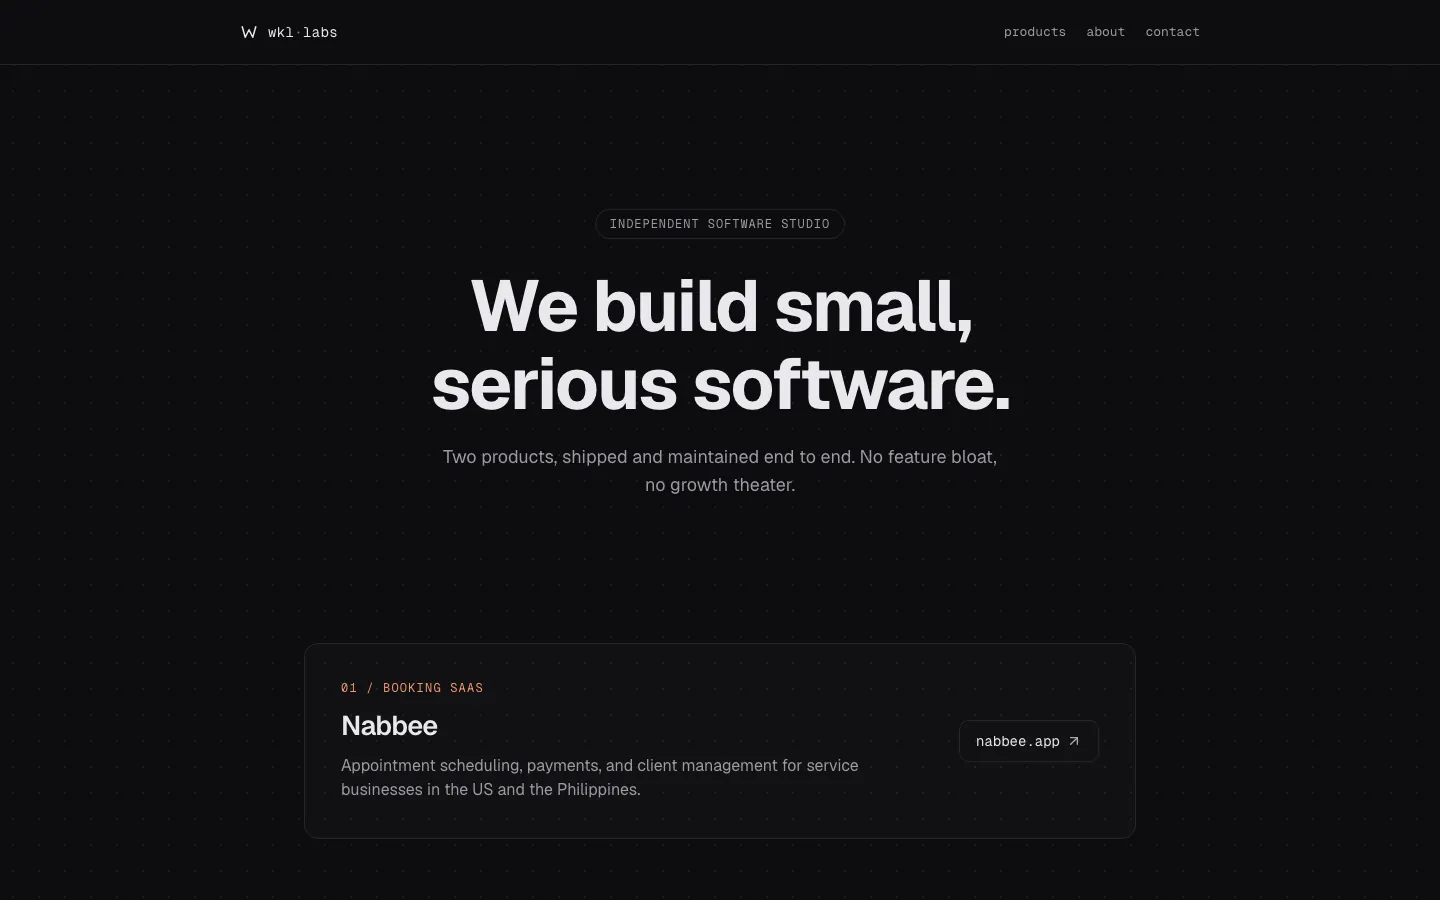
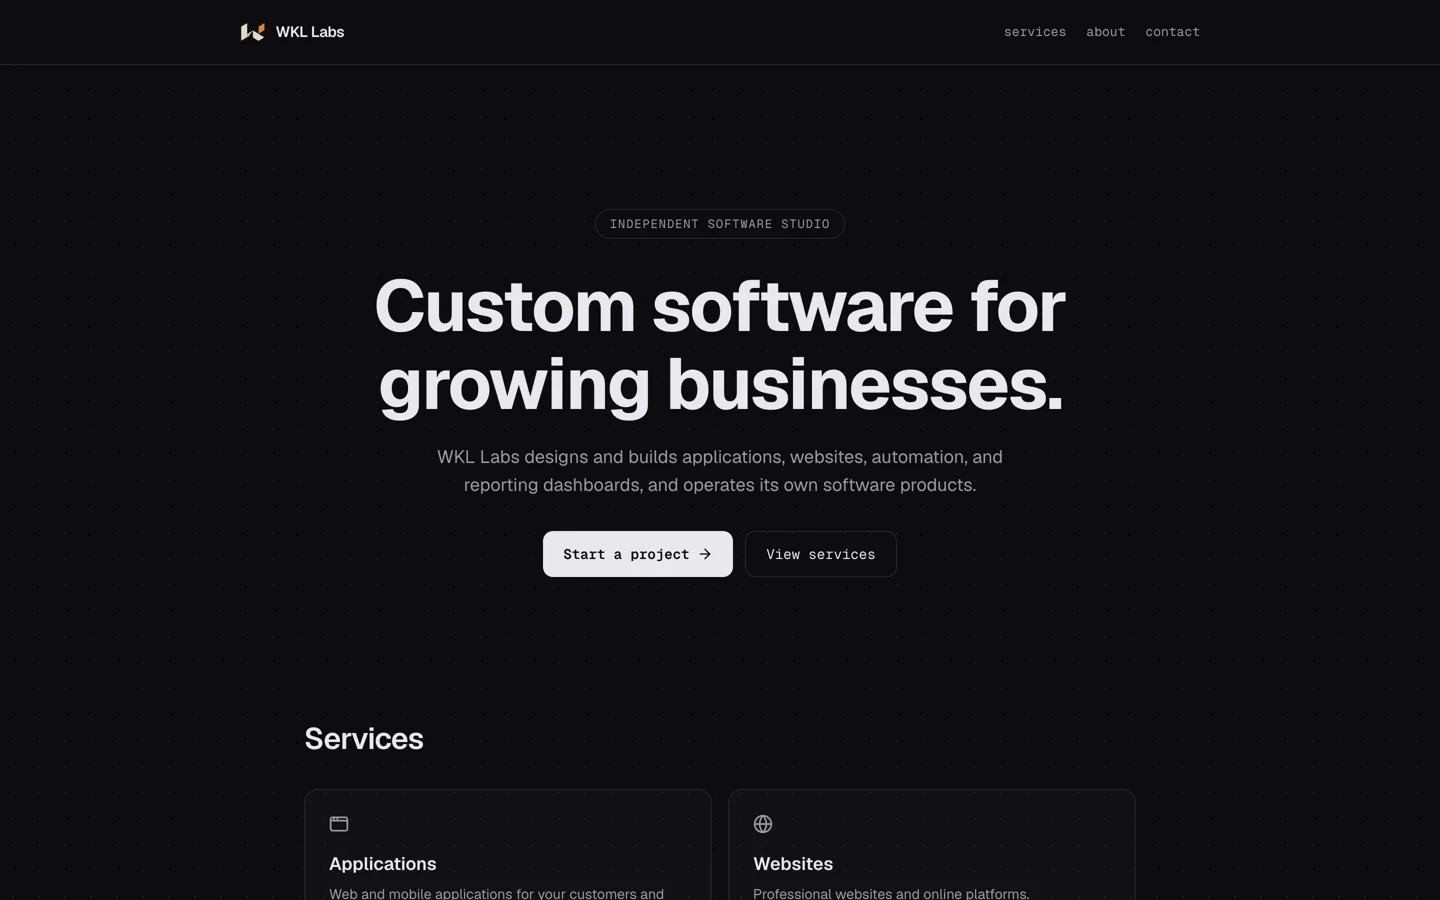
Refresh README, legal pages, older guides, and product descriptions

diff --git a/src/lib/guides.ts b/src/lib/guides.ts
@@ -30,8 +30,8 @@ export const guides: Guide[] = [
       {
         type: "prose",
         paras: [
-          "An automated reporting dashboard is a single view that pulls your numbers together, tidies them up, and refreshes itself on a set schedule. Instead of copying figures out of your systems every week and re-pasting them into the same layout, the dashboard does the assembly for you and always shows the current picture.",
-          "The important part for a busy owner: it runs on Google's or Microsoft's own servers, on a schedule you choose. Your laptop does not need to be open, there is no extra program to install, and no separate subscription to pay for. It works inside the account you already have.",
+          "An automated reporting dashboard is a single view that consolidates your data, standardizes it, and updates on a set schedule. Rather than copying figures from your systems into the same report each week, your team can rely on a dashboard that stays current.",
+          "It runs on Google's or Microsoft's servers on a schedule you choose, inside the account you already have. It does not depend on your computer being on and requires no additional software or separate subscription.",
         ],
       },
       {
@@ -51,7 +51,7 @@ export const guides: Guide[] = [
         items: [
           { h: "Portfolio health", p: "Occupancy, leased percent, leads and delinquency across properties, with a same-store comparison." },
           { h: "Sales performance", p: "Revenue vs target, pipeline by stage, and rep attainment in one screen." },
-          { h: "Marketing & web", p: "Sessions, conversions, channels and top landing pages, refreshed on their own." },
+          { h: "Marketing & web", p: "Sessions, conversions, channels and top landing pages, updated automatically." },
           { h: "Finance & ops", p: "Cash, margins, aging and any operational number you review on a cycle." },
         ],
       },
@@ -60,9 +60,9 @@ export const guides: Guide[] = [
         title: "How it comes together",
         items: [
           { h: "Data comes in", p: "Your numbers reach the sheet by import, form, export, or manual entry." },
-          { h: "It gets tidied", p: "On your schedule, the build cleans, combines and organizes the data for you." },
-          { h: "Your view updates", p: "The dashboard refreshes on its own, so the current picture is always ready." },
-          { h: "You get alerts", p: "If something looks off, it emails you. Otherwise it runs quietly." },
+          { h: "Data is prepared", p: "On your schedule, the data is cleaned, combined, and organized." },
+          { h: "The dashboard updates", p: "The dashboard refreshes automatically, so current figures are always available." },
+          { h: "Exceptions are flagged", p: "If a value appears incorrect, the system sends an email alert." },
         ],
       },
       {
@@ -87,8 +87,8 @@ export const guides: Guide[] = [
       {
         type: "prose",
         paras: [
-          "Google Apps Script is free automation that lives inside Google Sheets and the rest of Google Workspace. Think of it as a set of instructions you can save once, then have Google run for you: pull these numbers together, tidy them up, refresh this summary, send that email.",
-          "It runs on Google's own computers, on a schedule you choose. Your laptop does not need to be open, there is no extra program to install, and no separate subscription to pay for. It works inside the Google account you already have.",
+          "Google Apps Script is an automation platform included with Google Sheets and other Google Workspace applications. It runs saved instructions such as consolidating data, updating a summary, or sending an email.",
+          "Scripts run on Google's servers on a schedule you choose, inside your existing Google account. They do not depend on your computer being on and require no additional software or separate subscription.",
         ],
       },
       {
@@ -106,9 +106,9 @@ export const guides: Guide[] = [
         dek: "Common tasks that small businesses automate.",
         items: [
           { h: "Pull data into one place", p: "Bring numbers from different sheets, exports or tools together into a single view." },
-          { h: "Clean and de-duplicate", p: "Fix inconsistent formatting, remove duplicate rows, standardize names and dates automatically." },
-          { h: "Weekly reports on a schedule", p: "Have a dashboard or summary refresh itself, so the current numbers are always ready." },
-          { h: "Alerts when something's off", p: "Receive an email when a number crosses a set threshold, such as low stock or an overdue payment." },
+          { h: "Clean and de-duplicate", p: "Correct inconsistent formatting, remove duplicate rows, and standardize names and dates." },
+          { h: "Scheduled weekly reports", p: "Update a dashboard or summary automatically on a set schedule." },
+          { h: "Exception alerts", p: "Receive an email when a number crosses a set threshold, such as low stock or an overdue payment." },
           { h: "Form-to-sheet workflows", p: "Turn form responses into organized records: log the entry, send a confirmation, file it." },
           { h: "Send routine emails", p: "Email a recurring report or reminder to the right people automatically, straight from the sheet." },
         ],
@@ -118,16 +118,16 @@ export const guides: Guide[] = [
         title: "How it works",
         items: [
           { h: "Data comes in", p: "Your numbers reach the sheet by import, form, export, or manual entry." },
-          { h: "The script tidies it", p: "On the schedule you set, Apps Script cleans, combines and organizes the data." },
-          { h: "Your summary updates", p: "Your dashboard or report refreshes on its own, so the current view is always ready." },
-          { h: "You get alerts", p: "If something looks off, it emails you. Otherwise it runs quietly and you do nothing." },
+          { h: "Data is prepared", p: "On your schedule, Apps Script cleans, combines, and organizes the data." },
+          { h: "Reports update", p: "Your dashboard or report refreshes automatically, so current figures are always available." },
+          { h: "Exceptions are flagged", p: "If a value appears incorrect, the script sends an email alert." },
         ],
       },
       {
         type: "faq",
         title: "Is it free? Do I need anything?",
         items: [
-          { q: "Is it really free?", a: "Yes. Apps Script is included with your Google account at no extra charge. There is no separate license or subscription to switch it on." },
+          { q: "Is there an additional cost?", a: "No. Apps Script is included with your Google account at no extra charge. There is no separate license or subscription to switch it on." },
           { q: "Do I need to install anything?", a: "No new software. If you can open Google Sheets, you already have everything needed. It works in your normal browser." },
           { q: "What account do I need?", a: "A standard free Google account works for most everyday jobs. A paid Workspace account raises the daily limits for heavier tasks." },
           { q: "Are there any limits?", a: "Google sets fair daily limits, for example on emails per day. Most small-business tasks sit well inside them; Workspace accounts get higher limits." },

diff --git a/src/lib/products.ts b/src/lib/products.ts
@@ -18,7 +18,7 @@ export const products: Product[] = [
     kicker: "Booking SaaS",
     name: "Nabbee",
     description:
-      "Appointment scheduling, payments, and client management for service businesses in the US and the Philippines.",
+      "Online booking, deposits, and customer management for service businesses in the US and the Philippines.",
     href: "https://nabbee.app",
     hrefLabel: "nabbee.app",
     accentClass: "text-accent-nabbee",
@@ -31,7 +31,7 @@ export const products: Product[] = [
     kicker: "Marketplace",
     name: "Spell Collector",
     description:
-      "A trading-card marketplace where collectors buy, sell, and track their collections.",
+      "A Magic: The Gathering and Pokémon marketplace where collectors compare prices, buy from local shops, and manage their collections.",
     href: "https://spellcollector.com",
     hrefLabel: "spellcollector.com",
     accentClass: "text-accent-spell",

diff --git a/src/app/terms/page.tsx b/src/app/terms/page.tsx
@@ -14,7 +14,7 @@ export default function TermsPage() {
       <Navbar />
       <article className="mx-auto w-full max-w-2xl flex-1 px-5 py-16 sm:px-8">
         <p className="mb-3 font-mono text-xs tracking-[0.1em] text-subtle uppercase">
-          Last updated: July 17, 2026
+          Last updated: November 4, 2026
         </p>
         <h1 className="text-3xl font-bold tracking-tight">Terms of Use</h1>
 
@@ -23,7 +23,7 @@ export default function TermsPage() {
             <h2>Scope</h2>
             <p>
               These terms cover your use of the WKL Labs company website
-              (wkllabs.com and wklapp.com). Our products, Nabbee and Spell
+              (wkllabs.com). Our products, Nabbee and Spell
               Collector, have their own terms of service on their own sites.
             </p>
           </section>

diff --git a/src/app/privacy/page.tsx b/src/app/privacy/page.tsx
@@ -22,8 +22,7 @@ export default function PrivacyPage() {
           <section>
             <h2>Scope</h2>
             <p>
-              This policy covers the WKL Labs company website (wkllabs.com and
-              wklapp.com). Our products, Nabbee and Spell Collector, have their
+              This policy covers the WKL Labs company website (wkllabs.com). Our products, Nabbee and Spell Collector, have their
               own privacy policies on their own sites, which govern data handled
               inside those products.
             </p>

diff --git a/README.md b/README.md
@@ -1,39 +1,46 @@
-# WKL Labs: studio site
+# WKL Labs
 
-![wkllabs.com on desktop](docs/images/wkllabs-home-desktop.webp)
+![WKL Labs website on desktop](docs/images/wkllabs-home-desktop.webp)
 
-The website for WKL Labs, an independent software studio that builds and maintains small, focused products.
+The company website for WKL Labs, an independent software studio that builds applications, websites, automation, and reporting dashboards, and operates its own products.
 
-**Live:** [**wkllabs.com**](https://wkllabs.com)
+**Live:** [wkllabs.com](https://wkllabs.com)
 
-<img src="docs/images/wkllabs-home-mobile.webp" alt="wkllabs.com on a phone" width="300">
+<img src="docs/images/wkllabs-home-mobile.webp" alt="WKL Labs website on a phone" width="300">
 
 ## The problem
 
-A studio running more than one product needs one calm, fast page that explains what it builds and links straight to each live product, without a blog, newsletter or marketing clutter to maintain.
+The studio needed one clear place to explain its services, show real work, and turn visitors into project enquiries.
 
 ## What I built
 
-- **Single-page studio site:** hero, a product ledger linking to [Nabbee](https://nabbee.app) and [Spell Collector](https://spellcollector.com), an about section and a facts strip.
-- **"Precision Dark" design:** dot-grid canvas, monospace accents and a restrained type scale.
-- **SEO basics:** generated Open Graph image, `robots.txt` and `sitemap.xml` from the App Router.
-- **Custom 404** in the same visual language.
+- **Marketing site:** home, services, about, contact, guides, privacy, and terms pages.
+- **Proof built in:** live products, client projects, and client reviews.
+- **Contact form:** server-side validation, rate limiting, and spam protection, with delivery through Resend.
+- **Search foundations:** page metadata, structured data, sitemap, and a generated social image.
+- **Production hardening:** security headers, accessible navigation, and mobile-first layouts.
 
 ## Tech
 
-Next.js (App Router), React, TypeScript, Tailwind CSS v4, lucide icons, pnpm.
+Next.js (App Router), React, TypeScript, Tailwind CSS v4, Resend, Cloudflare, and Railway.
 
 ```bash
 pnpm install
-pnpm dev      # http://localhost:3000
+pnpm dev
 pnpm build
 ```
 
-## Results and quality
+## Configuration
 
-- Live at [wkllabs.com](https://wkllabs.com).
-- Static, dependency-light build with no client-side tracking widgets.
+Copy these into `.env.local` to enable the contact form:
+
+```bash
+RESEND_API_KEY=
+CONTACT_FROM_EMAIL=
+```
+
+`CONTACT_TO_EMAIL` and `NEXT_PUBLIC_PLAUSIBLE_DOMAIN` are optional.
 
 ## Notes
 
-Source for the studio site is public here. The products it links to are separate, private codebases; see the [Nabbee](https://github.com/williamwkl/nabbee) and [Spell Collector](https://github.com/williamwkl/spellcollector) case studies.
+The products are separate, private codebases. See the [Nabbee](https://github.com/williamwkl/nabbee) and [Spell Collector](https://github.com/williamwkl/spellcollector) case studies.
